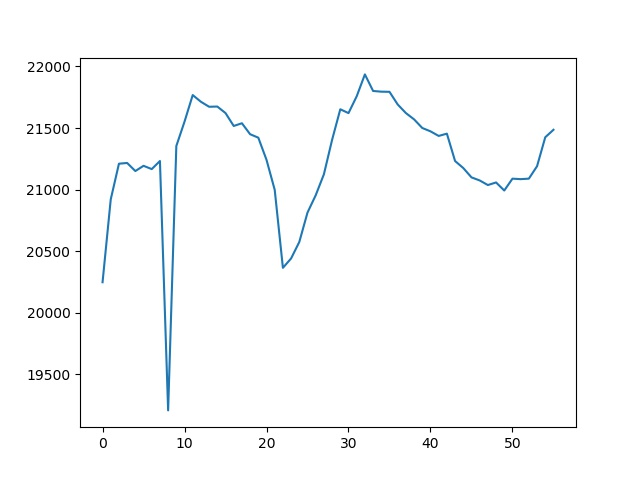
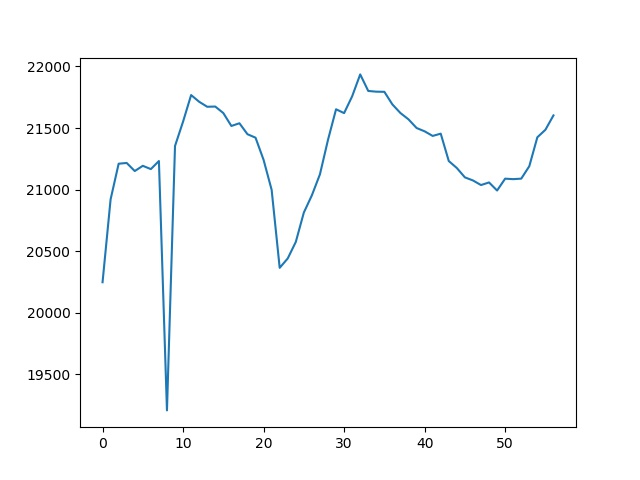
'auto'

diff --git a/README.md b/README.md
@@ -1,5 +1,5 @@
 Frizider live: 5
-21485.583333333332 
+21602.408333333333 
 0
 Temperatura:
 
